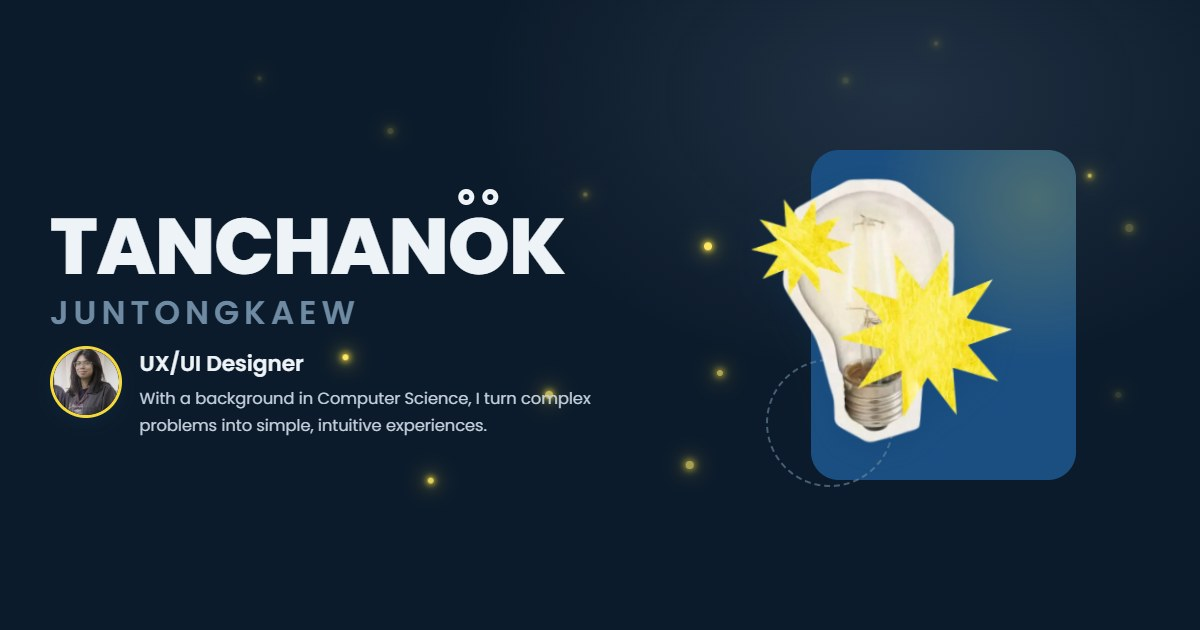
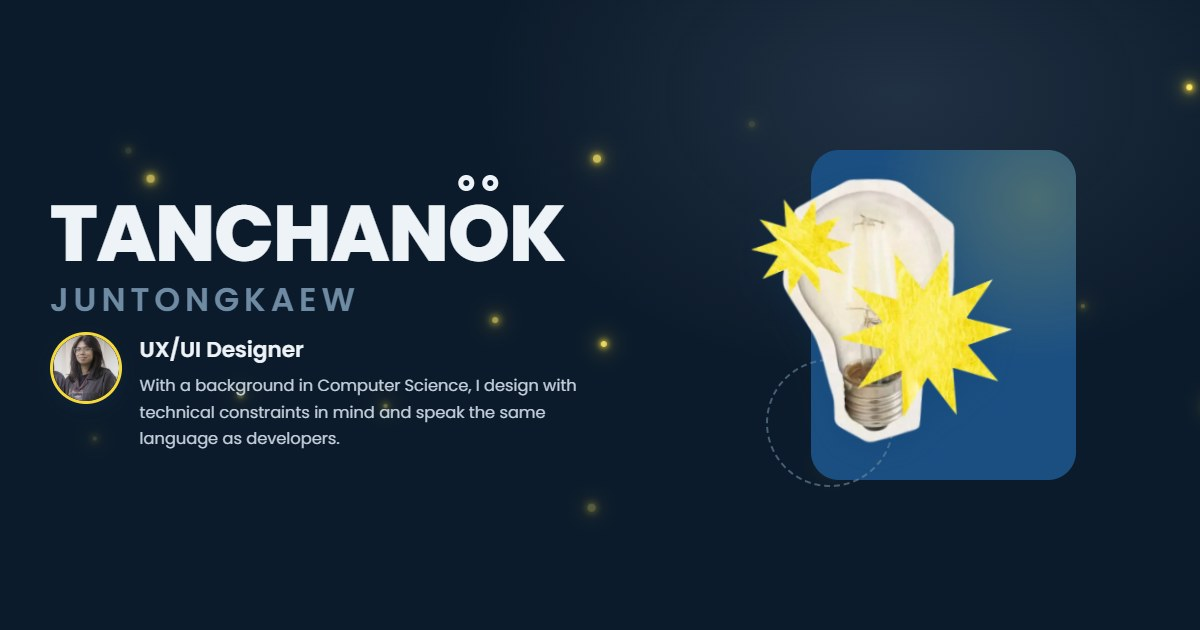
Prerender pages for crawlers; sharper hero tagline
Build now renders the home page and one static page per case study to
HTML (plus sitemap.xml and robots.txt), so tools that do not run
JavaScript, such as link-preview bots and AI summarizers, can read the
work. The hero tagline now leads with what the CS background brings:
designing with technical constraints in mind and speaking the same
language as developers.

diff --git a/index.html b/index.html
@@ -19,7 +19,7 @@
     <link rel="apple-touch-icon" href="./apple-touch-icon.png" />
     <meta
       name="description"
-      content="Portfolio of Tanchanok Juntongkaew, a UX/UI designer with a background in Computer Science who turns complex problems into simple, intuitive experiences."
+      content="Portfolio of Tanchanok Juntongkaew, a UX/UI designer with a Computer Science background who designs with technical constraints in mind and speaks the same language as developers."
     />
 
     <!-- Link previews (LinkedIn, Line, Facebook, X). Crawlers need absolute URLs:
@@ -29,7 +29,7 @@
     <meta property="og:title" content="Tanchanok Juntongkaew — UX/UI Designer" />
     <meta
       property="og:description"
-      content="UX/UI designer with a background in Computer Science. I turn complex problems into simple, intuitive experiences."
+      content="UX/UI designer with a Computer Science background. I design with technical constraints in mind and speak the same language as developers."
     />
     <meta property="og:url" content="https://tanchanok-portfolio.vercel.app/" />
     <meta property="og:image" content="https://tanchanok-portfolio.vercel.app/og-image.jpg?v=%OG_VERSION%" />

diff --git a/src/App.jsx b/src/App.jsx
@@ -26,8 +26,9 @@ const HOME_ANCHORS = ["work", "process", "about", "contact", "experience"];
    Hash-based: #/ home, #/work|about|contact|experience scroll on home,
    #/work/<slug> renders a case study. */
 const readPath = () => location.hash.replace(/^#\/?/, "");
-function useHashPath() {
-  const [path, setPath] = useState(readPath);
+function useHashPath(initial) {
+  // initial is used when prerendering at build time, where there is no location
+  const [path, setPath] = useState(() => (typeof location === "undefined" ? initial : readPath()));
   useEffect(() => {
     const on = () => setPath(readPath());
     addEventListener("hashchange", on);
@@ -62,8 +63,8 @@ function Header() {
   );
 }
 
-export default function App() {
-  const path = useHashPath();
+export default function App({ initialPath = "" }) {
+  const path = useHashPath(initialPath);
   const main = useRef(null);
   const wasHome = useRef(false);
   // the case study last opened, so coming back lands on its card instead of the top of Work

diff --git a/src/pages/Home.jsx b/src/pages/Home.jsx
@@ -43,8 +43,8 @@ function Hero() {
           <div className="h2-intro">
             <Img name="me" alt="Tanchanok Juntongkaew" className="h2-me" sizes="72px" />
             <p className="h2-lead">
-              <b>UX/UI Designer</b> With a background in Computer Science, I turn complex problems into
-              simple, intuitive experiences.
+              <b>UX/UI Designer</b> With a background in Computer Science, I design with technical
+              constraints in mind and speak the same language as developers.
             </p>
           </div>
           <div className="btns">

diff --git a/src/components/Theme.jsx b/src/components/Theme.jsx
@@ -5,7 +5,7 @@ import { createContext, useCallback, useContext, useEffect, useState } from "rea
    before first paint from the saved choice or the system setting, so there is no flash. */
 const KEY = "theme";
 const ThemeContext = createContext({ theme: "dark", setTheme: () => {} });
-const read = () => document.documentElement.dataset.theme || "dark";
+const read = () => (typeof document === "undefined" ? "dark" : document.documentElement.dataset.theme || "dark");
 
 export function ThemeProvider({ children }) {
   const [theme, set] = useState(read);

diff --git a/src/entry-server.jsx b/src/entry-server.jsx
@@ -1,0 +1,7 @@
+import { renderToString } from "react-dom/server";
+import App from "./App.jsx";
+
+/* Build-time render (scripts/prerender.mjs): the page's HTML for a route, so crawlers, link
+   previews and AI summarizers that do not run JavaScript still see the content. */
+export const render = (path) => renderToString(<App initialPath={path} />);
+export { PROJECTS } from "./data.js";

diff --git a/src/styles.css b/src/styles.css
@@ -2891,3 +2891,7 @@ html.theme-fade *::after {
     gap: 0.45rem;
   }
 }
+/* fireflies get their position from JS; keep them hidden until then (prerendered HTML) */
+.firefly-field span:not([style]) {
+  display: none;
+}

diff --git a/CLAUDE.md b/CLAUDE.md
@@ -1,6 +1,8 @@
 # Tanchanok Juntongkaew — Portfolio
 
-Personal portfolio for Tanchanok Juntongkaew, a UX/UI designer. Never use the tagline
+Personal portfolio for Tanchanok Juntongkaew, a UX/UI designer. Hero tagline: her CS background
+means she designs with technical constraints in mind and speaks the same language as developers
+(chosen over the generic "turn complex problems into simple, intuitive experiences"). Never use the tagline
 "designer who builds with React" (she rejected it as unprofessional); describe her plainly as a
 UX/UI designer.
 Audience: recruiters and hiring managers for UX/UI design roles (she is not looking for frontend roles). They skim, so the
@@ -38,6 +40,14 @@ facts strip and buttons). The pre-commit hook in `.githooks/` reruns it whenever
 .githooks`). `vite.config.js` appends an md5 fingerprint (`%OG_VERSION%`) to the og:image URL so
 LinkedIn, Line and Facebook fetch a changed image instead of their cached copy. Open Graph URLs
 must be absolute and match the live address; update them if the domain changes.
+`npm run build` also prerenders (`scripts/prerender.mjs`, using `src/entry-server.jsx` and
+`renderToString`): the home page HTML goes into `dist/index.html` and each case study gets a static
+`dist/work/<slug>/index.html` (canonical URL, own title and description, relative paths rewritten
+to `../../`, and a script that sends browsers on to `/#/work/<slug>`), plus `sitemap.xml` and
+`robots.txt`. This is so crawlers, link-preview bots and AI summarizers that do not run JavaScript
+see the content. The browser app still mounts with `createRoot` and replaces the prerendered
+markup (no hydration), so render code must not read `window`/`document`/`location` outside effects
+(`App` takes `initialPath`; `Theme` reads `document` only when it exists).
 Deploy `dist/` to GitHub Pages, Netlify or Vercel (build command `npm run build`, output `dist`).
 `base: "./"` in `vite.config.js` makes it work at a domain root or a sub-path. Hash routing means
 no server rewrites are needed.
